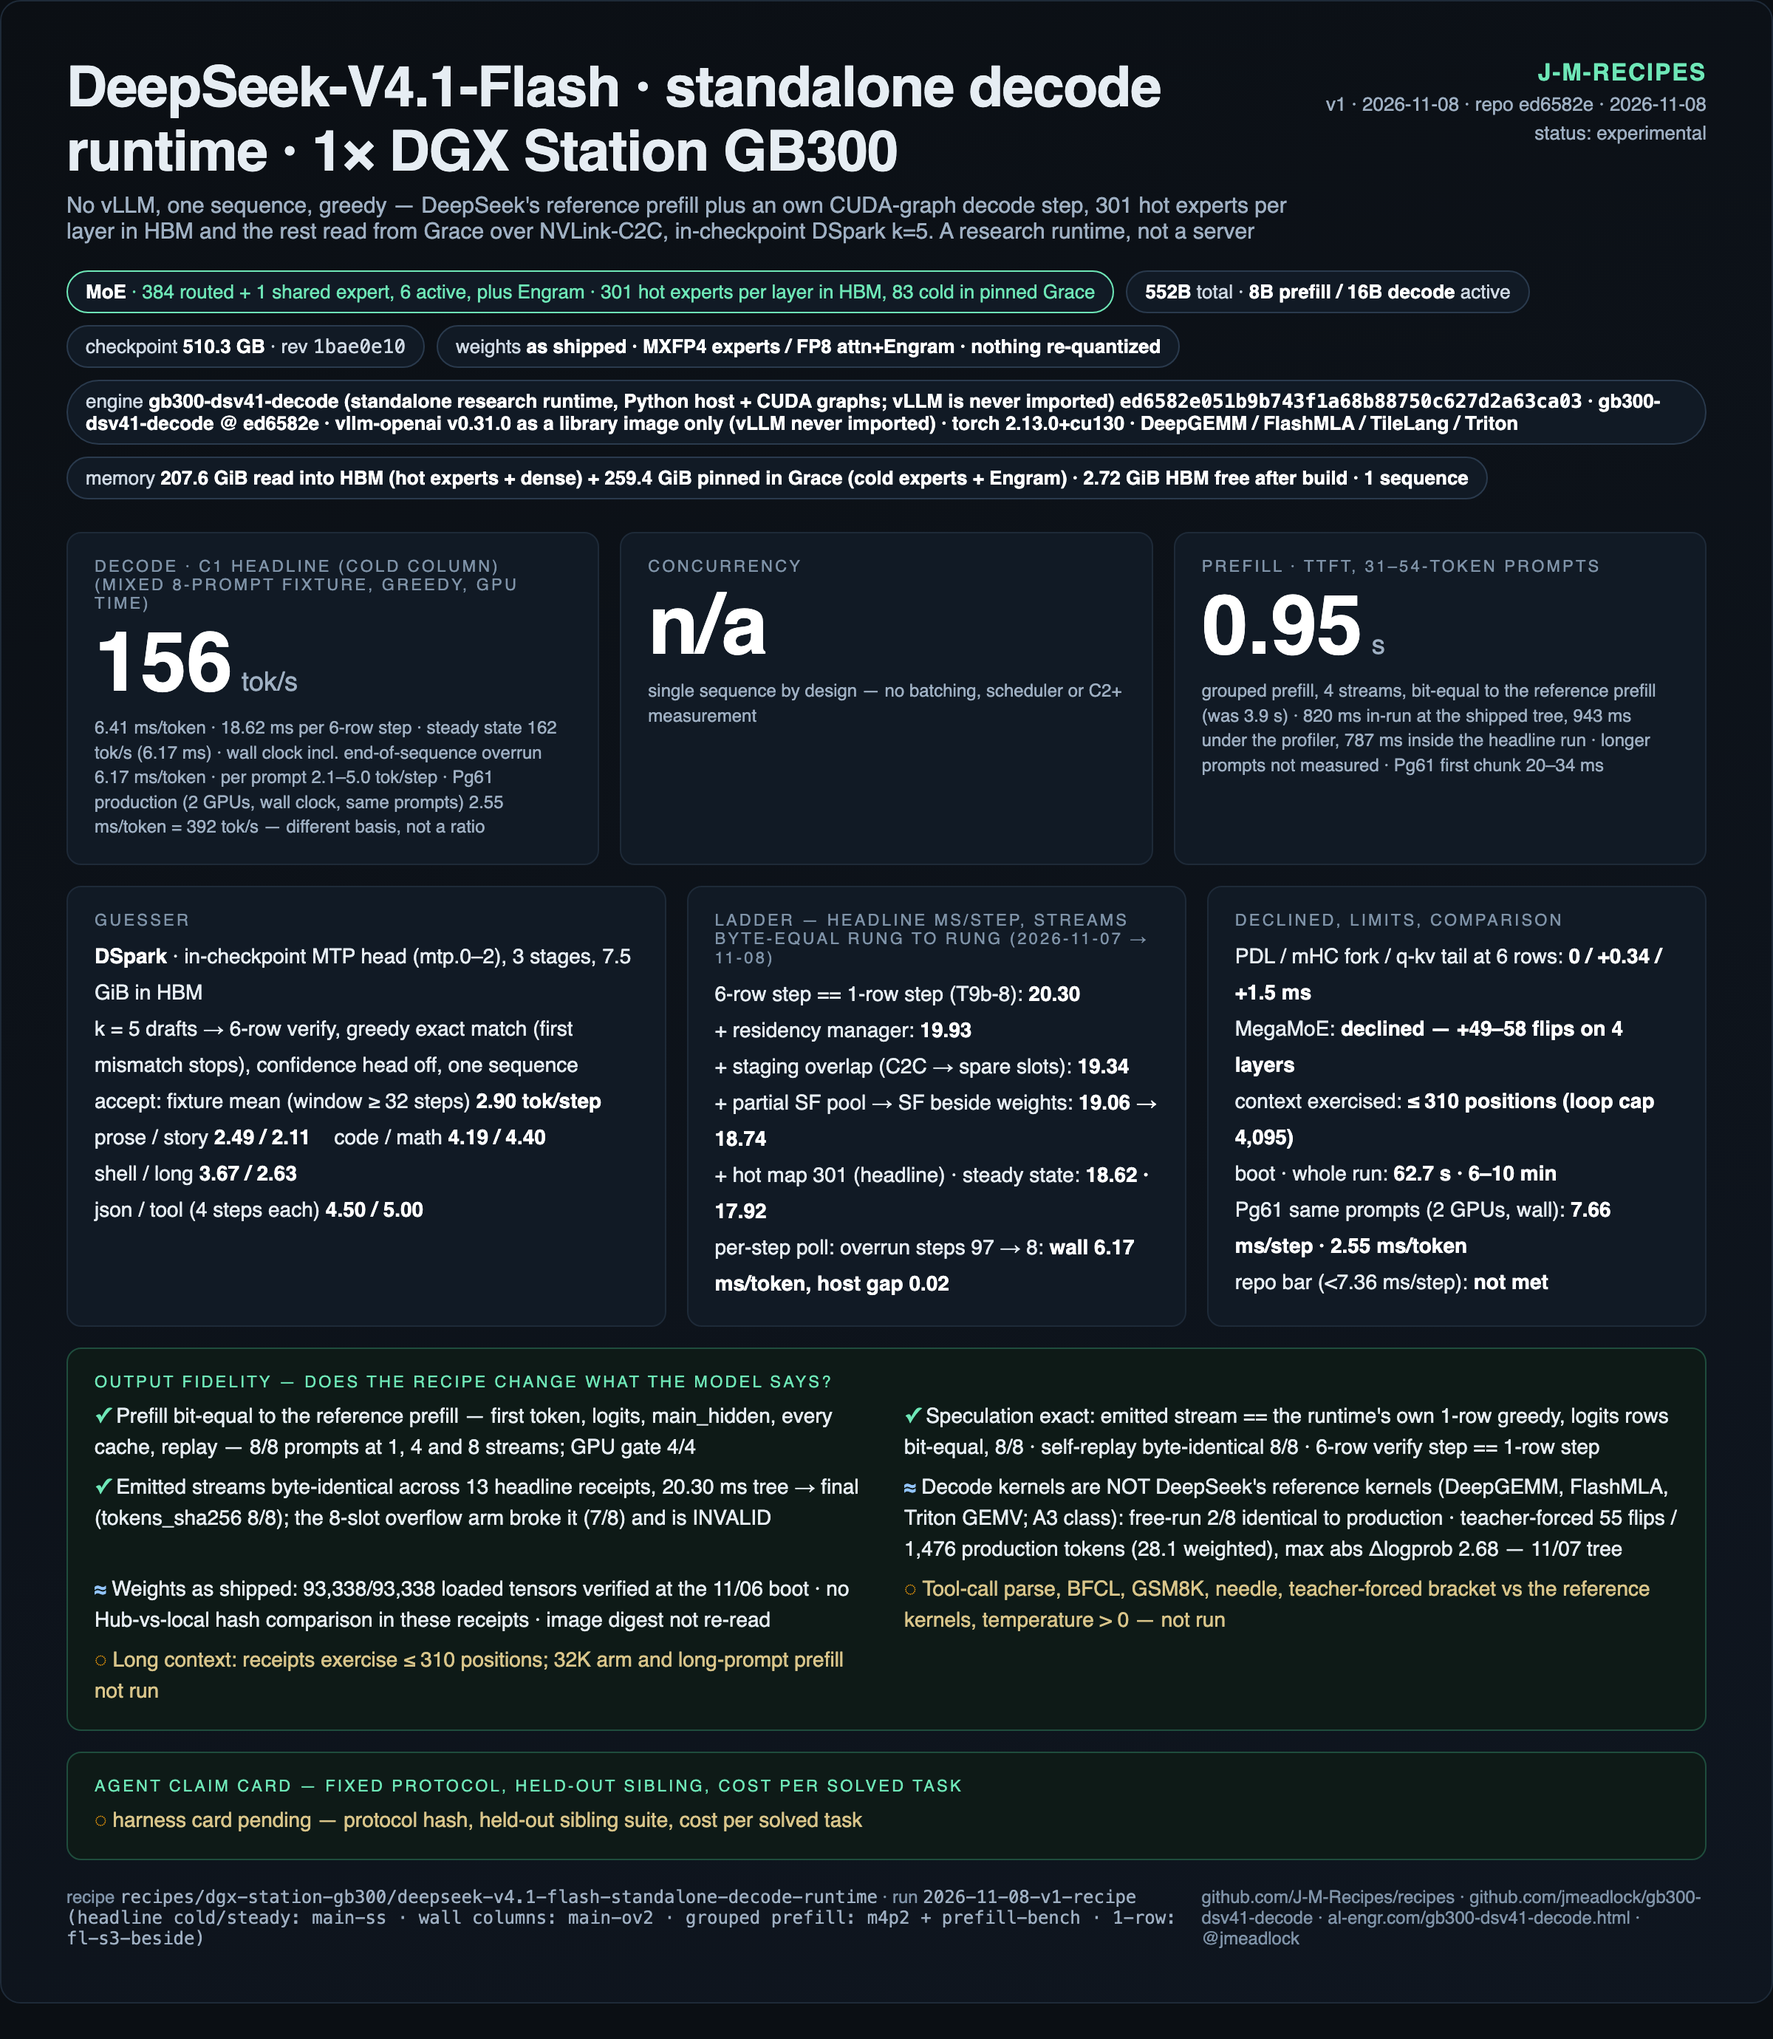
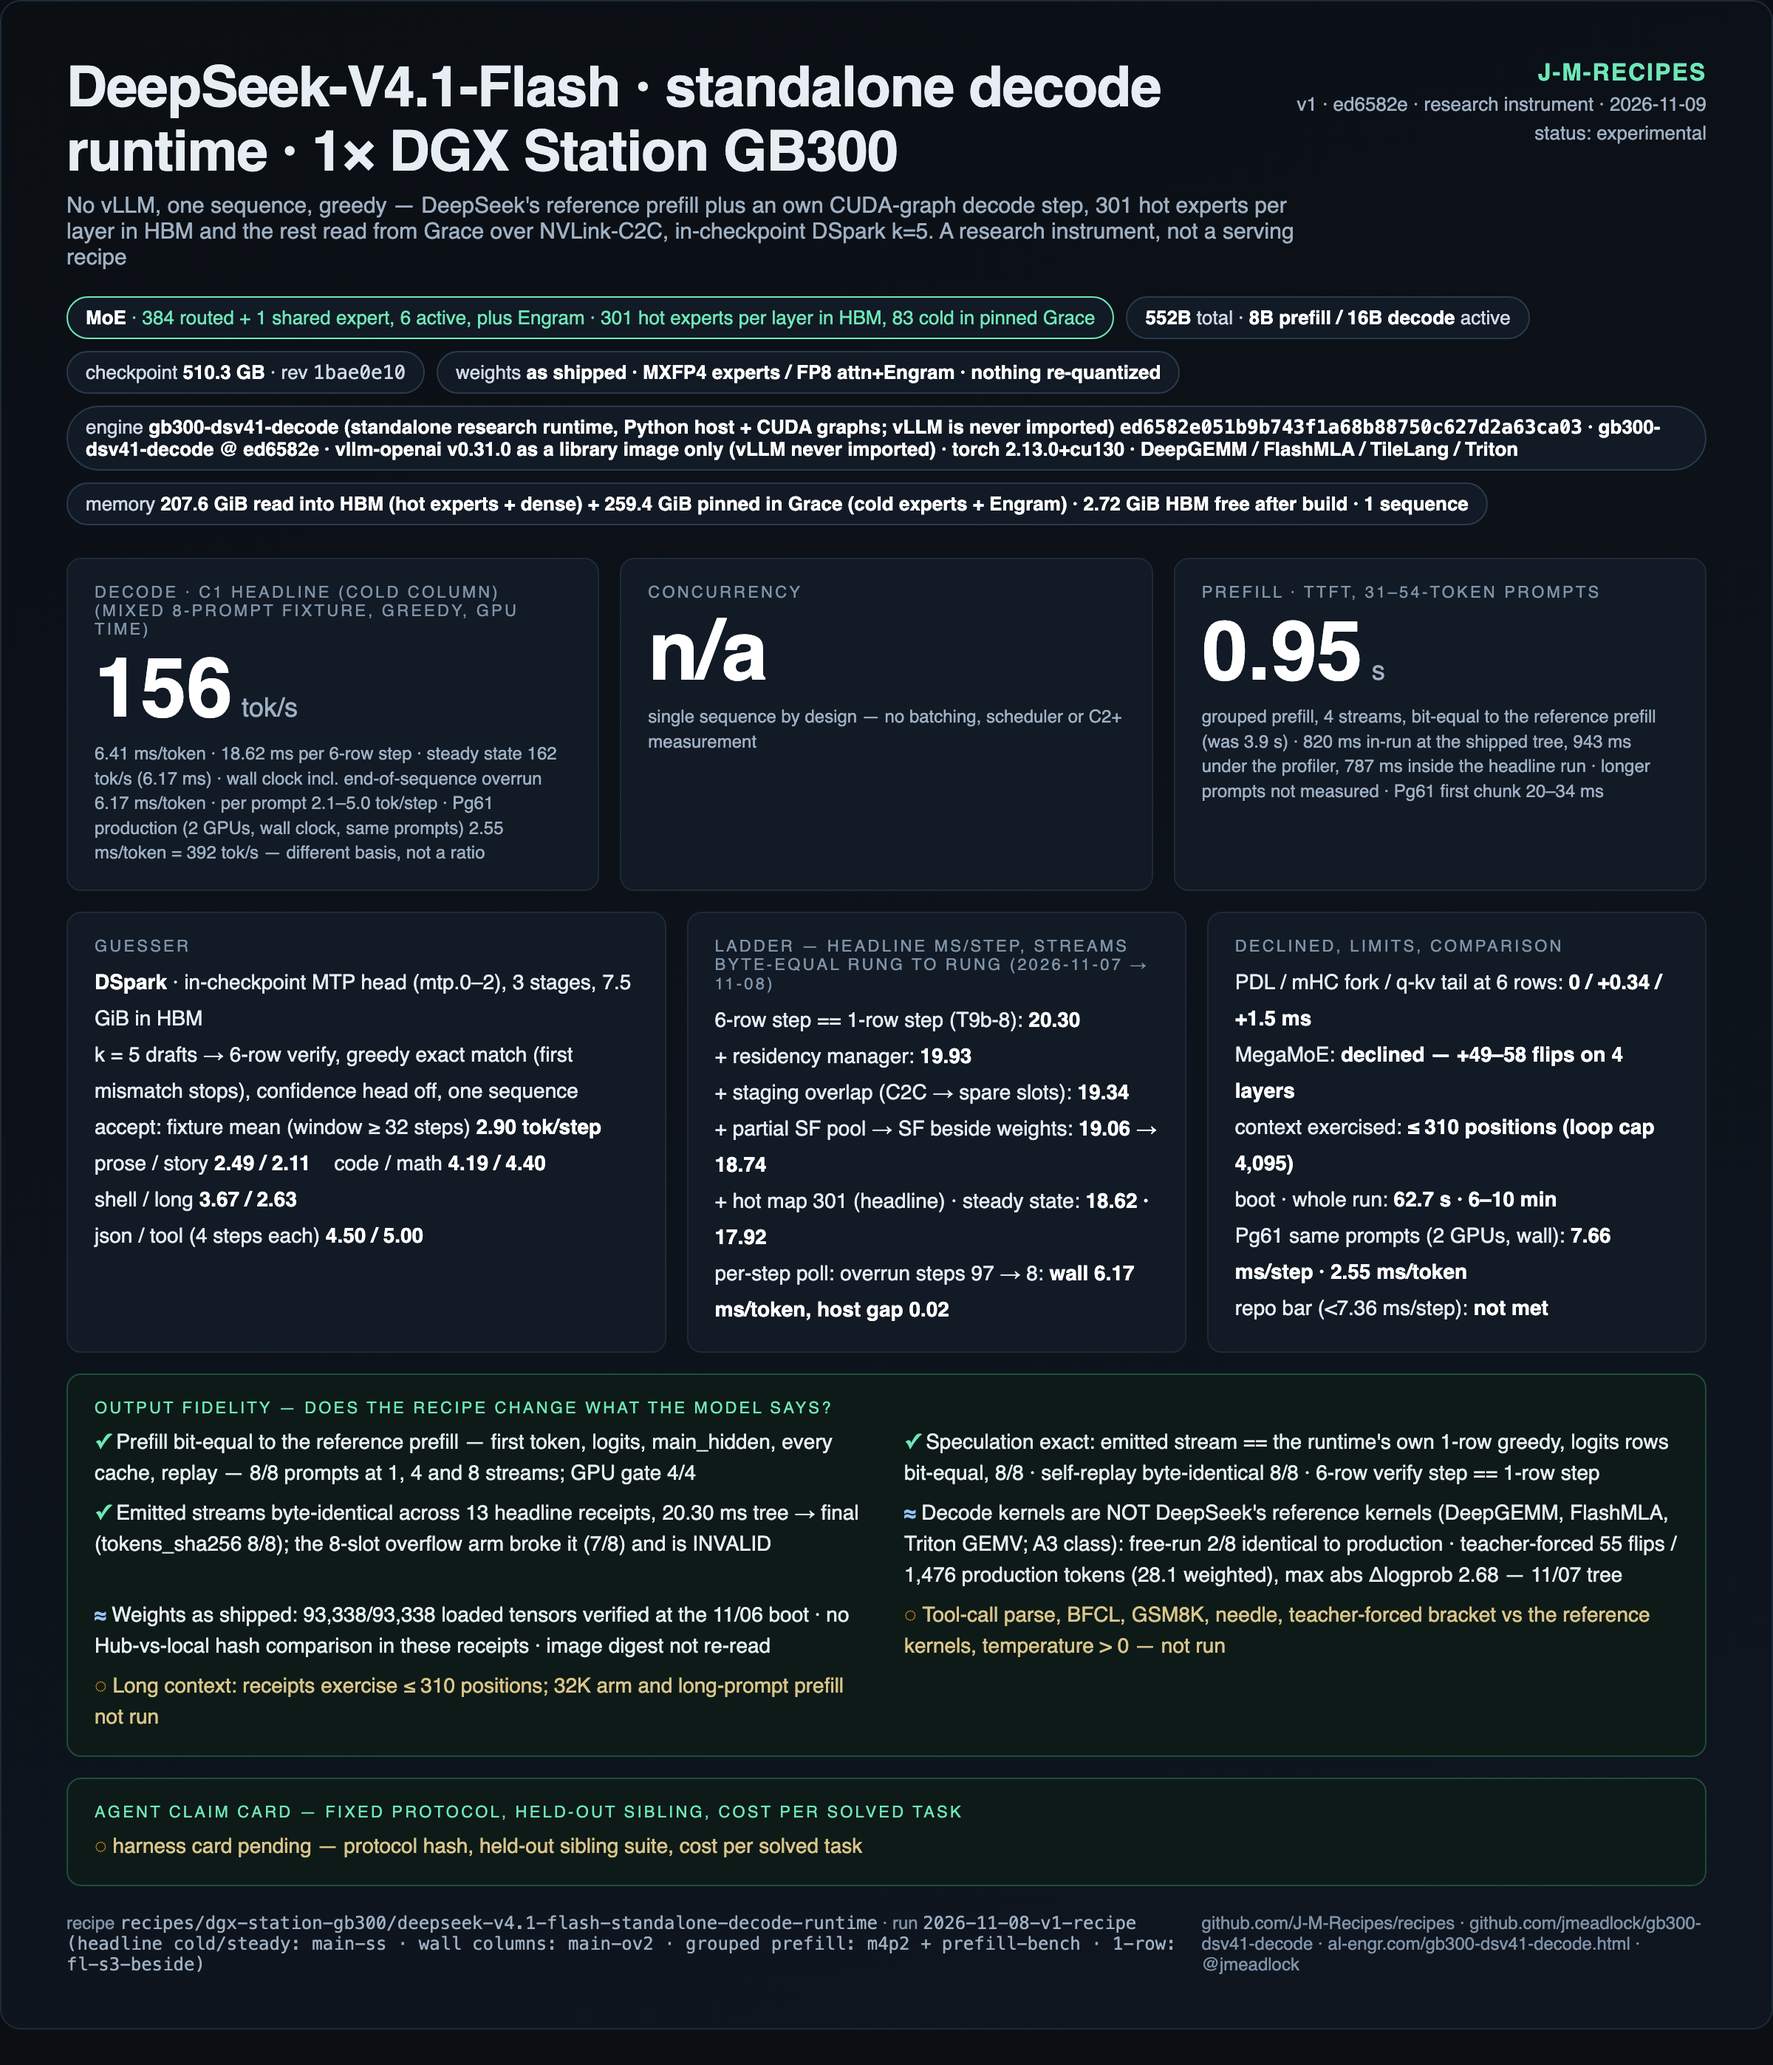
Standalone decode runtime: reword as a research instrument, not a serving recipe; point serving readers at the vLLM siblings (#123)

diff --git a/recipes/dgx-station-gb300/deepseek-v4.1-flash-standalone-decode-runtime/card.html b/recipes/dgx-station-gb300/deepseek-v4.1-flash-standalone-decode-runtime/card.html
@@ -44,9 +44,9 @@
   <div class="top">
     <div>
       <h1>DeepSeek-V4.1-Flash · standalone decode runtime · 1× DGX Station GB300</h1>
-      <div class="sub">No vLLM, one sequence, greedy — DeepSeek&#x27;s reference prefill plus an own CUDA-graph decode step, 301 hot experts per layer in HBM and the rest read from Grace over NVLink-C2C, in-checkpoint DSpark k=5. A research runtime, not a server</div>
+      <div class="sub">No vLLM, one sequence, greedy — DeepSeek&#x27;s reference prefill plus an own CUDA-graph decode step, 301 hot experts per layer in HBM and the rest read from Grace over NVLink-C2C, in-checkpoint DSpark k=5. A research instrument, not a serving recipe</div>
     </div>
-    <div class="brand"><b>J-M-RECIPES</b><br>v1 · 2026-11-08 · repo ed6582e · 2026-11-08<br>status: experimental</div>
+    <div class="brand"><b>J-M-RECIPES</b><br>v1 · ed6582e · research instrument · 2026-11-09<br>status: experimental</div>
   </div>
   <div class="pills">
 <span class="pill type"><b>MoE</b> · 384 routed + 1 shared expert, 6 active, plus Engram · 301 hot experts per layer in HBM, 83 cold in pinned Grace</span>

diff --git a/README.md b/README.md
@@ -18,7 +18,7 @@ Written by James Meadlock and Milo. Recipes are MIT; models and engines carry th
 | `dgx-spark-8x` | [Full GLM-5.3 (744B, official zai-org FP8) on 8x DGX Spark, vLLM TP8 over 200G RoCE + MTP](recipes/dgx-spark-8x/glm-5.3-fp8-tp8/) | GLM-5.3 (FP8 as shipped by Z.ai (e4m3, 128x128 block scales, activation_scheme dynamic); 141 safetensors, 755,632,050,320 bytes; all 143 LFS files sha256-matched to the Hub on all eight nodes (results/2026-10-16-fp8-tp8-baseline-mtload/raw/weight-fanout-verify.log). Weight shards are sha256-identical to revision e0b07fd2; ba32f8c1 changed chat_template.jinja (tool-result validation) and eval yamls only.) | 🧪 experimental | 29.92 tok/s @ C1, nginx-log-parser + pytest prompt, 800 max tokens, T=0, reasoning low, streamed; 1 discarded warm + 3 reps | 2026-10-16 |
 | `dgx-spark-8x` | [Full GLM-5.3 (744B, RadixArk NVFP4) on 8x DGX Spark, SGLang v0.5.22 TP8 over 200G RoCE + EAGLE/NextN, 512K context](recipes/dgx-spark-8x/glm-5.3-nvfp4-sglang-tp8/) | GLM-5.3 (Same checkpoint as the vLLM sibling: NVFP4 (ModelOpt, group 16) on routed experts; attention, shared experts, mlp.gate, layers 0-1, embed/lm_head and the NextN/MTP layer bf16. 47 safetensors, 464,823,042,096 bytes; 49/49 LFS files sha256-matched to the Hub on all eight nodes (2026-10-16). KV served as fp8_e4m3 (SGLang's DSA pool accepts only fp8_e4m3 or bf16; no 4-bit KV path). Third-party QFS stored-weight KLD vs BF16 0.0511 (not executed through these kernels).) | 🧪 experimental | 36.15 tok/s @ C1, nginx-log-parser + pytest prompt, 800 max tokens, T=0, reasoning low, streamed; 1 discarded warm + 3 reps; EAGLE 4 steps; cold boot, 4 slots configured | 2026-10-17 |
 | `dgx-spark-8x` | [Full GLM-5.3 (744B, RadixArk NVFP4) on 8x DGX Spark, vLLM TP8 over 200G RoCE + MTP, 512K context](recipes/dgx-spark-8x/glm-5.3-nvfp4-tp8/) | GLM-5.3 (NVFP4 (ModelOpt 0.47.0.dev, group 16) on routed experts; 231 ignore entries keep self_attn, shared experts, mlp.gate, layers 0-1, embed/lm_head and the MTP layer (model.layers.78*) in bf16; checkpoint kv_cache_scheme fp8 (serve-time fp8_ds_mla used here). 47 safetensors, 464,823,042,096 bytes; all 49 LFS files sha256-matched to the Hub on all eight nodes. Third-party QFS teacher-forced KLD vs GLM-5.3 BF16: 0.0511 (malaiwah/quant-fidelity-suite, comparator 312a2551db89; stored weights reconstructed, not executed through these kernels).) | 🧪 experimental | 35.65 tok/s @ C1, nginx-log-parser + pytest prompt, 800 max tokens, T=0, reasoning low, streamed; 1 discarded warm + 3 reps; MTP k=3 | 2026-10-16 |
-| `dgx-station-gb300` | [DeepSeek-V4.1-Flash standalone decode runtime - one DGX Station GB300, no vLLM, no server](recipes/dgx-station-gb300/deepseek-v4.1-flash-standalone-decode-runtime/) | DeepSeek-V4.1-Flash-1017 (as shipped - routed experts MXFP4 (I8 + E8M0 block scales), Engram and attention FP8, nothing re-quantized. The loader widens 7 bf16 tensors to fp32 (head.weight and the ratio-2 compressor wkv/wgate of layers 2, 8, 14), dequantizes wo_a to bf16 (40 layers + 3 MTP), and may re-layout weights in memory (values bit-identical to the checkpoint). Checkpoint 96,085 tensors / 475.24 GiB (docs/checkpoint-1017-inventory.json); config.json sha256 8be45ce0476004a3f529fd896115a4a2e800a129ad2d3ec05b16050f52e21879 (from the receipt).) | 🧪 experimental | 6.415 ms/token · accept 2.90 tok/step @ single sequence (no batching), greedy, DSpark k=5 6-row step, 8 fixture prompts (42/47/54/38/34/49/46/31 prompt tokens: prose, code, math, json, shell, tool, long, story) x 256 new tokens, steps >= 32 of each sequence, residency policy cold at the start of the cell, one GB300 *(GPU time, headline cold column, reference prefill in this run; fixture mean (per-prompt tokens/step 2.11-5.00))* | 2026-11-08 |
+| `dgx-station-gb300` | [DeepSeek-V4.1-Flash standalone decode runtime (research instrument) - one DGX Station GB300, no vLLM, no server](recipes/dgx-station-gb300/deepseek-v4.1-flash-standalone-decode-runtime/) | DeepSeek-V4.1-Flash-1017 (as shipped - routed experts MXFP4 (I8 + E8M0 block scales), Engram and attention FP8, nothing re-quantized. The loader widens 7 bf16 tensors to fp32 (head.weight and the ratio-2 compressor wkv/wgate of layers 2, 8, 14), dequantizes wo_a to bf16 (40 layers + 3 MTP), and may re-layout weights in memory (values bit-identical to the checkpoint). Checkpoint 96,085 tensors / 475.24 GiB (docs/checkpoint-1017-inventory.json); config.json sha256 8be45ce0476004a3f529fd896115a4a2e800a129ad2d3ec05b16050f52e21879 (from the receipt).) | 🧪 experimental | 6.415 ms/token · accept 2.90 tok/step @ single sequence (no batching), greedy, DSpark k=5 6-row step, 8 fixture prompts (42/47/54/38/34/49/46/31 prompt tokens: prose, code, math, json, shell, tool, long, story) x 256 new tokens, steps >= 32 of each sequence, residency policy cold at the start of the cell, one GB300 *(GPU time, headline cold column, reference prefill in this run; fixture mean (per-prompt tokens/step 2.11-5.00))* | 2026-11-09 |
 | `dgx-station-gb300` | [DeepSeek-V4.1-Flash at 1M context on one DGX Station GB300 (vLLM UVA expert offload + DSpark)](recipes/dgx-station-gb300/deepseek-v4.1-flash-vllm-uva-dspark/) | DeepSeek-V4.1-Flash-1017 (as shipped — routed experts MXFP4 (I8 + E8M0 block scales), Engram and attention FP8. Nothing re-quantized.) | ✅ verified | 1.014 ratio · accept 3.49 tok/step @ temp-1.0 per-class window (perclass_run_t.sh, 40 real Hermes prompts x 5 classes, 256 forced tokens, C1 + C8, r1/r2, seed 42); v28-prob launch (launch_br3.sh + SPEC_EXTRA), image 0909, k [[1,8,5],[9,24,1]], adaptive residency unfrozen on every arm · by class (tok/s/accept): prose 1.016 · structured 1.002 · code 1.055 · shell_ops 0.95 · tool_json 0.992 *(FAIL (BR6FAIL-G2-G2b, shell_ops C1 at temp 1.0 and temp 0) - G6 redesign PASS; block verification RETIRED for cause on this lane, series closed)* | 2026-10-29 |
 | `dgx-station-gb300` | [DeepSeek-V4.1-Flash at 1M context on a DGX Station GB300 with an RTX PRO 6000 expert sidecar](recipes/dgx-station-gb300/deepseek-v4.1-flash-vllm-uva-dspark-sidecar/) | DeepSeek-V4.1-Flash-1017 (as shipped — routed experts MXFP4 (I8 + E8M0 block scales), attention and Engram FP8. Nothing re-quantized; the sidecar reads expert tensors straight out of the shards.) | 🧪 experimental | 450.6 tok/s · accept 3.74 tok/step @ C1 per-class decode, temperature 1.0 top_p 1.0, 40 private Hermes-transcript prompts x 256 forced tokens per class (perclass_decode_t.py); value = mean of the 5 class means; Pg61 (Garner 8043a681 engine, v0.31.0) · by class (tok/s/accept): prose 367.2/3.02 · structured 396.9/3.27 · code 494.9/4.30 · shell_ops 530.4/4.65 · tool_json 463.8/3.97 *(Pg61, soak in progress)* | 2026-11-06 |
 | `dgx-station-gb300` | [GLM-5.3-Flash NVFP4 + DFlash2 speculative decoding on one DGX Station GB300](recipes/dgx-station-gb300/glm-5.3-flash-nvfp4-dflash2/) | GLM-5.3-Flash (NVFP4 (NVIDIA ModelOpt, first-party; 204,475,659,764 bytes). Routed experts FP4; attention, shared experts, router, embeddings, lm_head unquantized (132 excluded modules). mean |dlogp| 0.136 vs zai-org/GLM-5.3-Flash FP8 on 5,120 teacher-forced tokens; argmax differs 15.6%. LibertAIDAI/GLM-5.3-Flash-NVFP4 (previous revision of this recipe): 0.147 / 15.9%. nvidia closer on 27/40 prompts, bootstrap 95% CI on the gap [0.004, 0.017]. Most divergence is shared NVFP4 bias: both quants pick the same non-FP8 token 10.3% of the time. Previous revision of this recipe used LibertAIDAI/GLM-5.3-Flash-NVFP4 @ aa28e1f54130286c95fee10d0705c74ce8743734 (run 2026-09-01); speed identical within noise (235.5 vs 238.1 C1); kept as control.) | ✅ verified | 79.3 percent @ BFCL_v4 live_simple + live_multiple, 1,311 cases, frozen, run once; T=0, reasoning_effort low, tool_choice auto, C8, protocol harness/protocol.yaml (sha256 7120a254c43a); 1,040 solved; unsolved 184 wrong-arg-value / 31 missing-arg / 29 wrong-function / 18 no-call / 9 HTTP 400 | 2026-11-02 |

diff --git a/recipes/dgx-station-gb300/deepseek-v4.1-flash-standalone-decode-runtime/README.md b/recipes/dgx-station-gb300/deepseek-v4.1-flash-standalone-decode-runtime/README.md
@@ -1,9 +1,21 @@
 # DeepSeek-V4.1-Flash standalone decode runtime - one DGX Station GB300
 
-Status: **experimental**, first recipe for this runtime, 2026-11-08. A research decode runtime, not an API server:
+Status: **experimental - a research instrument, not a serving recipe** (reworded 2026-11-09; first recipe for this
+runtime 2026-11-08). A research decode runtime, not an API server:
 one Python process, one sequence at a time, greedy only, no vLLM in the process. Public repo:
 [jmeadlock/gb300-dsv41-decode @ ed6582e](https://github.com/jmeadlock/gb300-dsv41-decode/commit/ed6582e051b9b743f1a68b88750c627d2a63ca03)
 (Apache-2.0). Blog: <https://al-engr.com/gb300-dsv41-decode.html>. Card: `card.png`.
+
+> **2026-11-09 - read this first.** Do not use this runtime to serve the model. To serve this checkpoint on one
+> GB300, use [`deepseek-v4.1-flash-vllm-uva-dspark`](../deepseek-v4.1-flash-vllm-uva-dspark/README.md): an
+> OpenAI-compatible vLLM lane with concurrency and sampling, 187.5 tok/s single-stream on real text with the
+> static map and 189.6 - 218.9 tok/s with adaptive residency (its receipts). With the chassis' RTX PRO 6000, use
+> [`deepseek-v4.1-flash-vllm-uva-dspark-sidecar`](../deepseek-v4.1-flash-vllm-uva-dspark-sidecar/README.md)
+> (320.5 - 324.7 tok/s on its per-class C1 cells, 343 on a 400-token reply). This page's 156 - 162 tok/s is a
+> greedy fixture on a different harness; the single-GPU lanes were never run side by side, so the numbers are
+> quoted separately and no ratio is claimed - but nothing measured here is a reason to serve from this runtime.
+> What it is for: bit-reproducible runs, per-kernel step anatomy, and bounding measurements taken before a
+> port into the serving stack (the Grace cold-expert staging now being ported to vLLM was measured here first).
 
 The question the project asks is how short one GB300's single-user decode step can get with stock weights, all 384
 experts and no KV quantization. This page is where the answer stands on Sunday 2026-11-08, with the numbers it rests on
